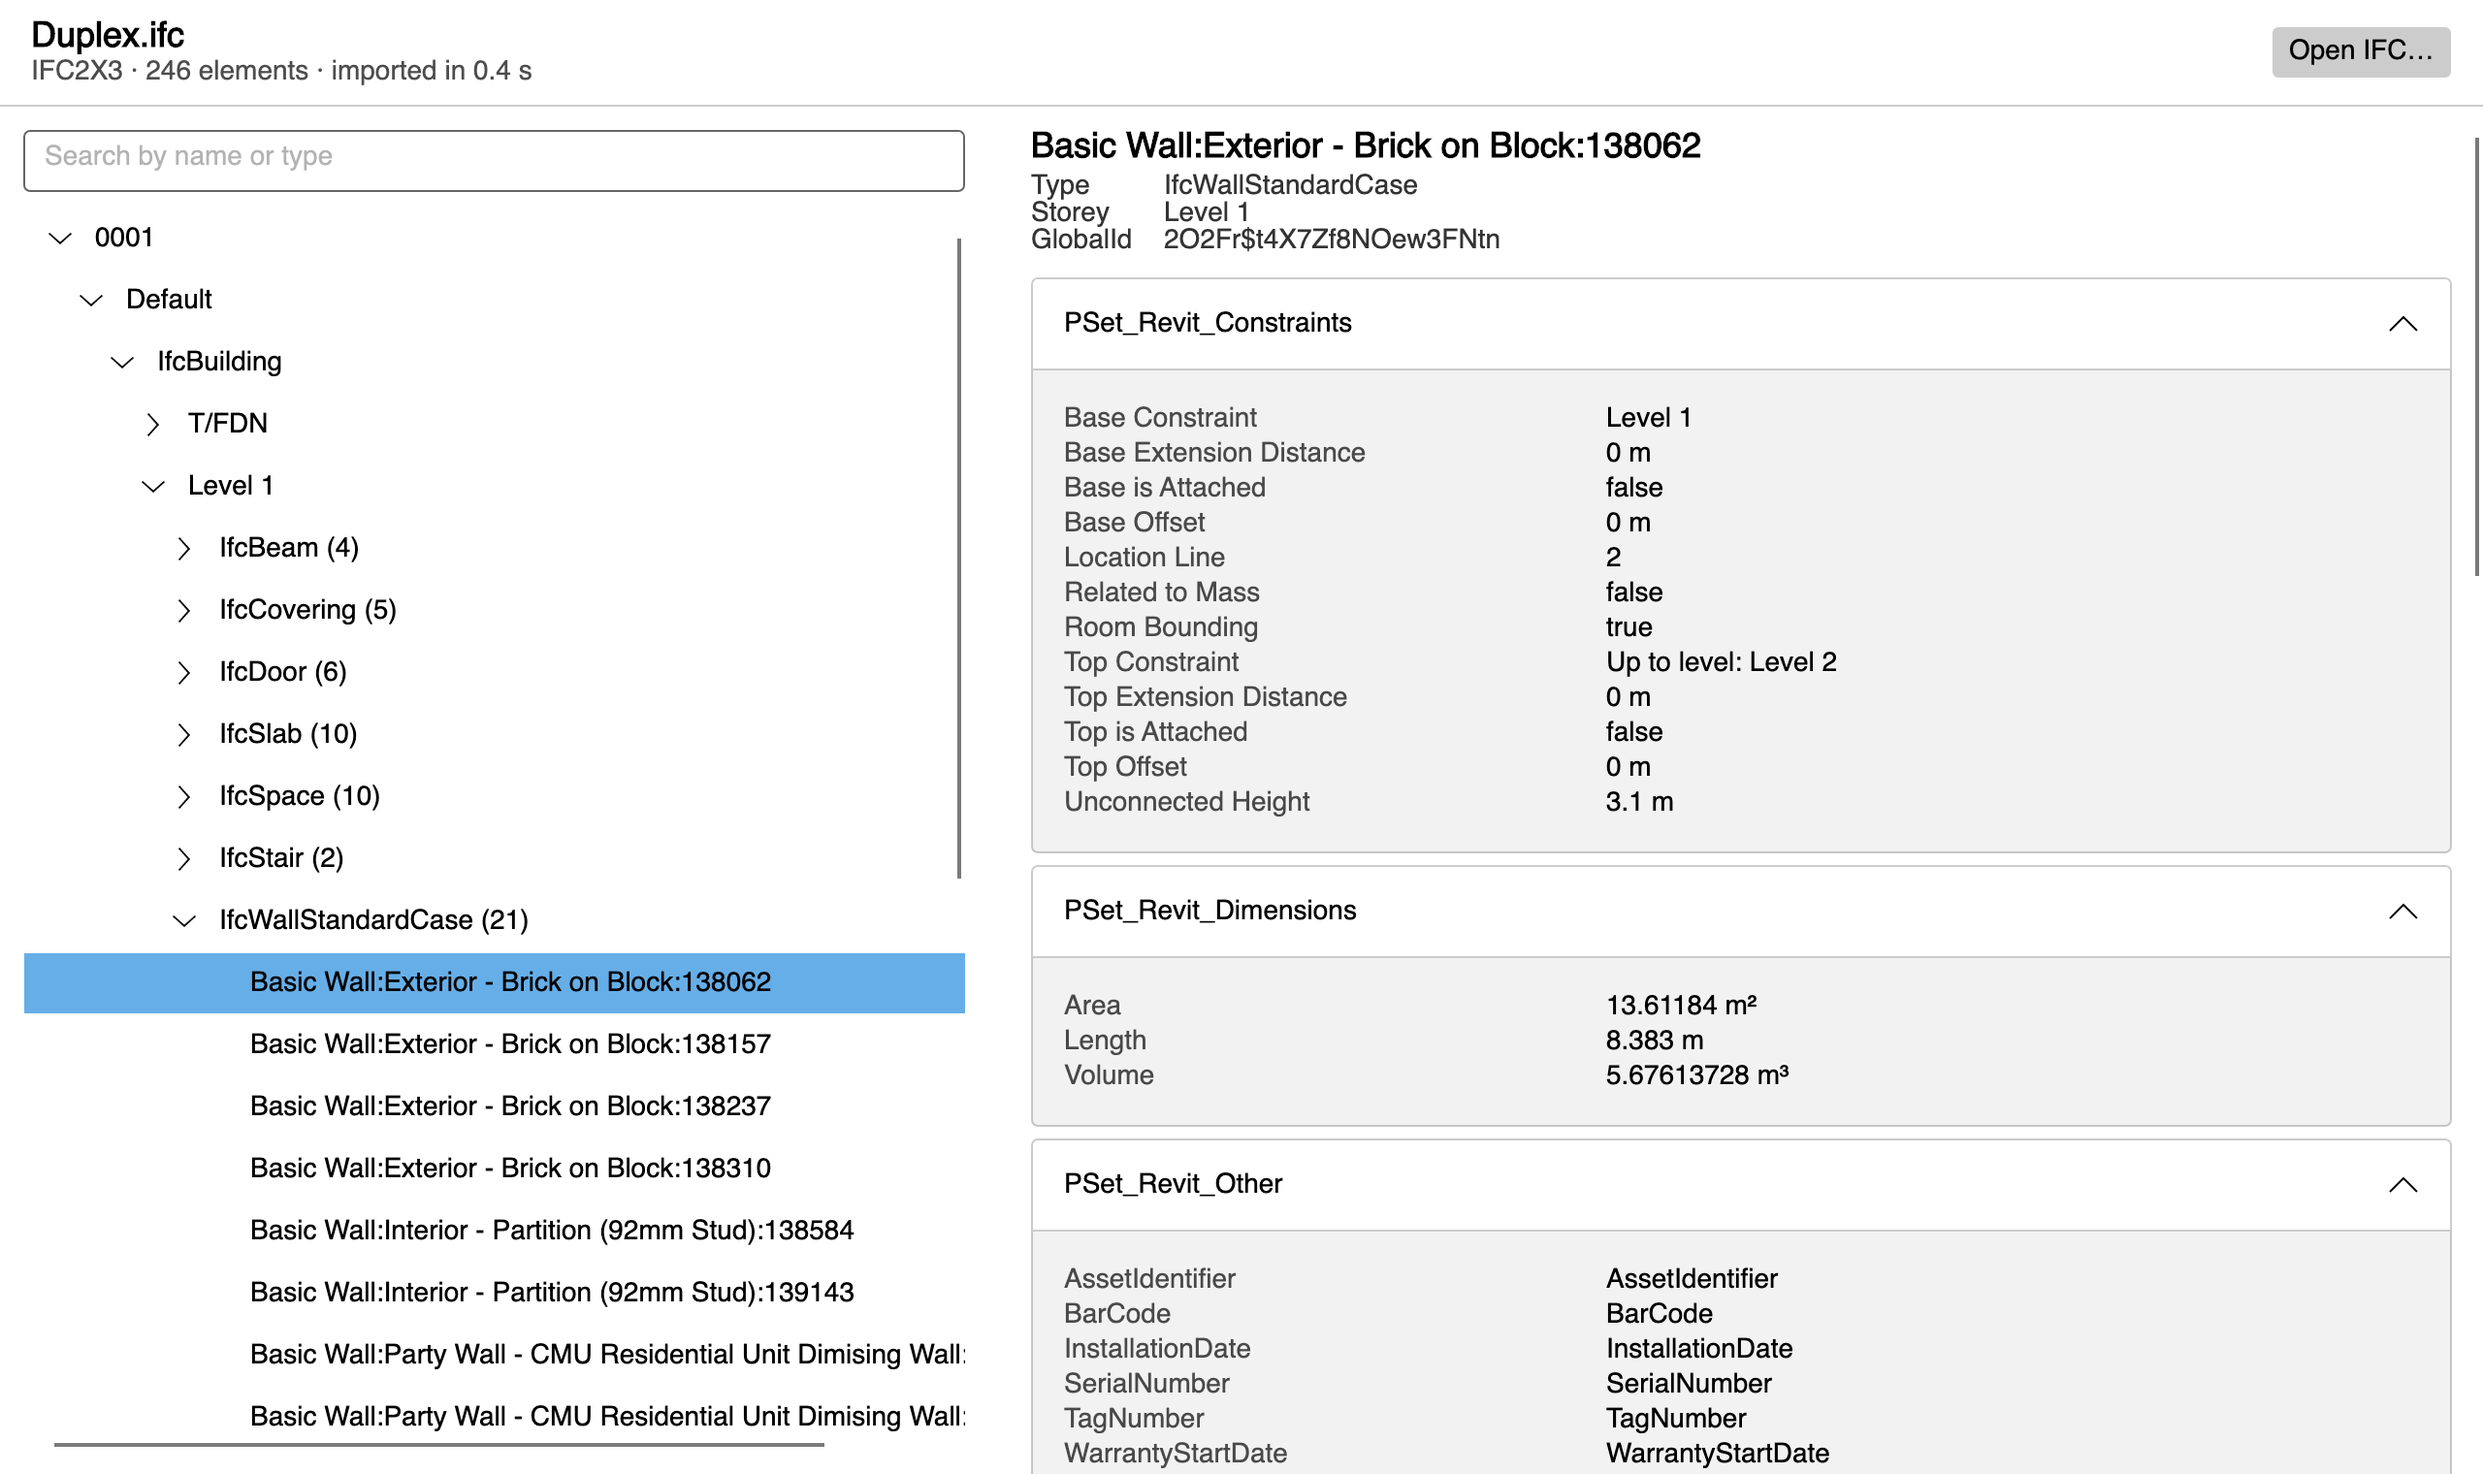
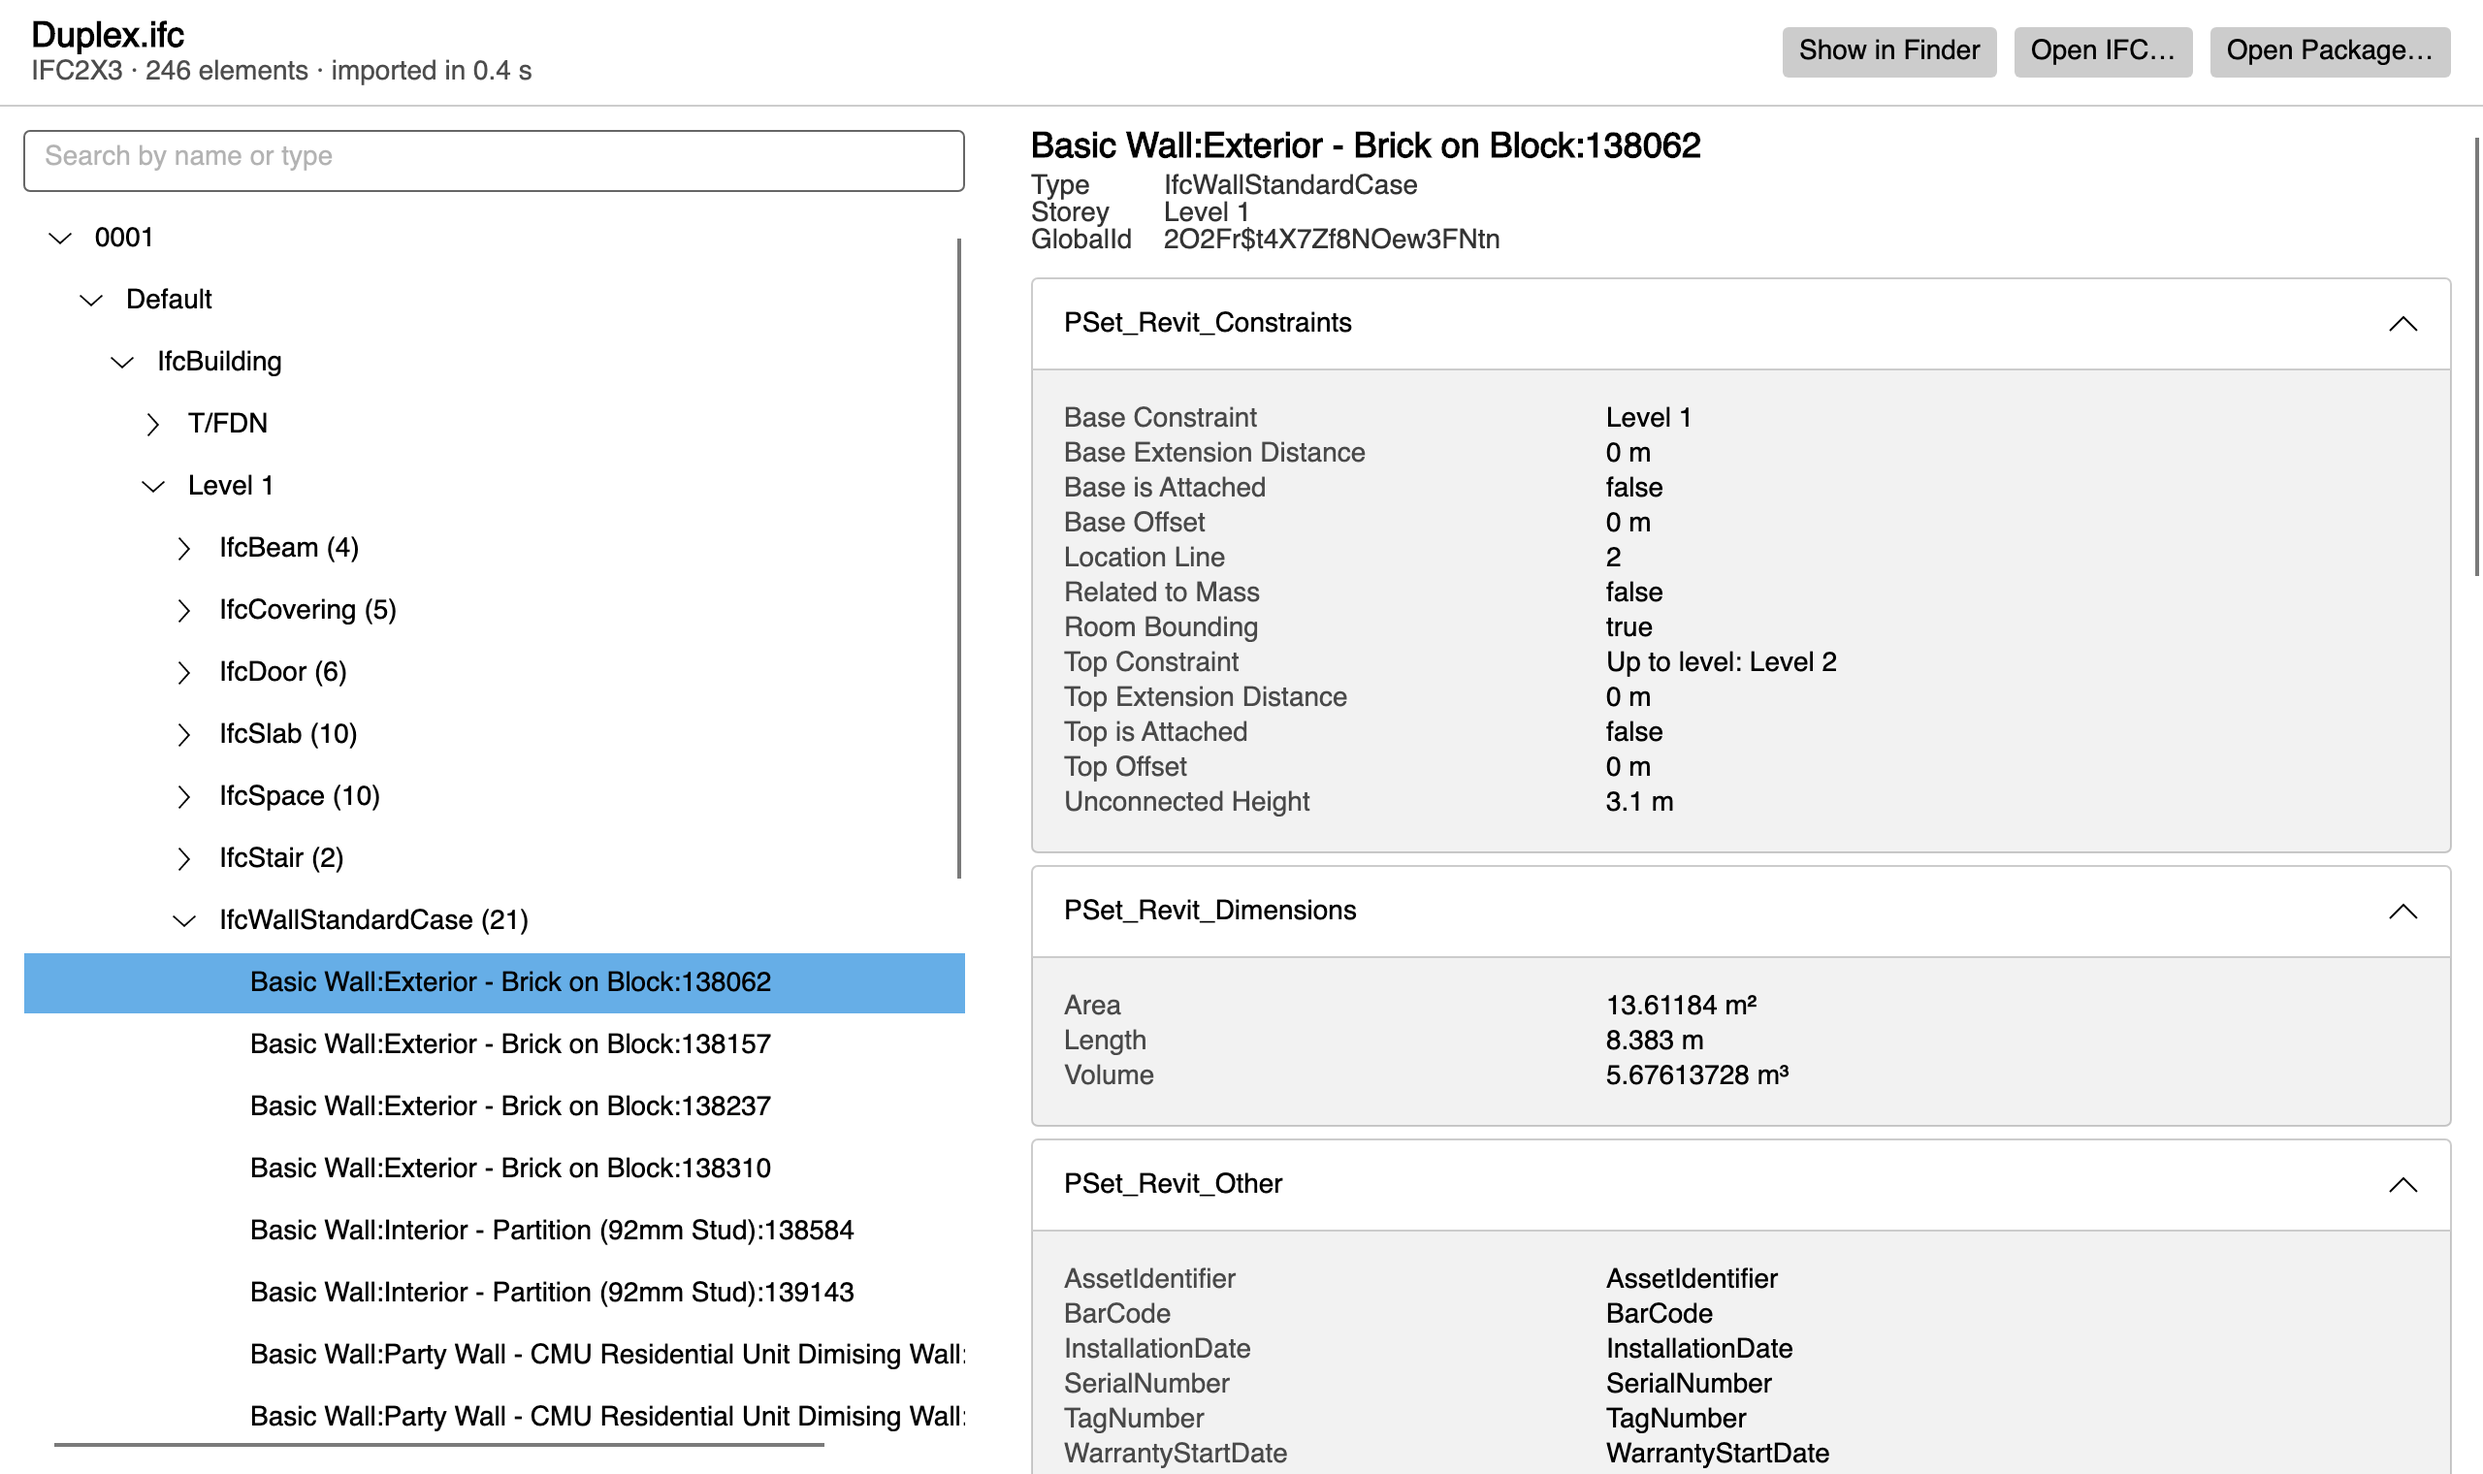
docs: describe architecture, pipeline and package format
Adds the project dependency diagram, the import pipeline and the
.plumb layout to the README, with fresh screenshots and import
versus package open timings.

Changed region(s): [[0.7188, 0.0, 0.9688, 0.0618]]

diff --git a/README.md b/README.md
@@ -1,6 +1,6 @@
 # Plumb
 
-Desktop viewer for IFC building models. Open an `.ifc` file and browse its spatial structure and the properties of every element.
+Desktop viewer for IFC building models. Open an `.ifc` file, browse its spatial structure and the properties of every element, and keep the result as a `.plumb` package that reopens in milliseconds.
 
 ```
               ________________________
@@ -22,7 +22,6 @@ Desktop viewer for IFC building models. Open an `.ifc` file and browse its spati
     V
  ~~~~~~~~~~~~~~~~~~~~~~~~~~~~~~~~~~~~~~~~
 ```
-
 <picture>
   <source media="(prefers-color-scheme: dark)" srcset="docs/plumb-dark.png">
   <img alt="Plumb with the Duplex model open: spatial tree on the left, properties of the selected wall on the right" src="docs/plumb-light.png">
@@ -35,23 +34,86 @@ Desktop viewer for IFC building models. Open an `.ifc` file and browse its spati
 - Shows instance and type property sets and quantity sets for the selected element. Instance values override type values.
 - Resolves units from the project's unit assignment when a property does not specify its own.
 - Filters the tree by element name or IFC type.
-- Imports in the background with progress reporting and cancellation.
+- Saves every import as a `.plumb` package next to the source file. Opening the package skips IFC parsing entirely.
+- Imports in the background with progress and cancellation. A cancelled or failed import never leaves a half-written package behind.
 
-A 2.4 MB Revit export with 246 elements and 12,713 property values opens in about 0.4 s on Apple Silicon.
+| Duplex sample: 2.4 MB, 246 elements, 12,713 property values | Time |
+|---|---|
+| Import from IFC | ~260 ms |
+| Open the saved package | ~15 ms |
+
+Measured on Apple Silicon with a Release build in a warm process.
 
 ## Architecture
 
+Every project does one job and references only what that job needs. Each box depends only on the boxes below it.
+
 ```
-src/Plumb.Core      data model, import contract, tree building and search
-src/Plumb.Import    IFC reading with xBIM
-src/Plumb.App       Avalonia desktop app
-tests/Plumb.Tests   NUnit tests
+                  ┌────────────────────────────┐
+                  │         Plumb.App          │
+                  │    Avalonia desktop UI     │
+                  └──────────────┬─────────────┘
+                                 │
+                  ┌──────────────┴─────────────┐
+                  │        Plumb.Import        │
+                  │     runs the pipeline      │
+                  └─────┬────────────────┬─────┘
+                        │                │
+                        │                │
+┌───────────────────────┴────┐      ┌────┴───────────────────────┐
+│         Plumb.Ifc          │      │       Plumb.Package        │
+│    IFC file to records     │      │ records to .plumb and back │
+│          [ xBIM ]          │      │         [ SQLite ]         │
+└──────────────────────┬─────┘      └─────┬──────────────────────┘
+                       │                  │
+                       │                  │
+                  ┌────┴──────────────────┴────┐
+                  │         Plumb.Core         │
+                  │   records, results, tree   │
+                  │  netstandard2.1, no deps   │
+                  └────────────────────────────┘
 ```
 
-- **Errors are values.** `ImportService` returns `ImportResult.Success` or `ImportResult.Failure` with an `ImportError` code and never throws for expected failures. xBIM wraps exceptions thrown from its progress callback, so cancellation is detected from the token rather than the exception type.
+| Project | Job | Key library |
+|---|---|---|
+| `Plumb.Core` | Records, import results, the element tree and search. Targets netstandard2.1, so any .NET runtime can reference it, Unity included. | |
+| `Plumb.Ifc` | Reads an IFC file into element and property records. | xBIM |
+| `Plumb.Package` | Writes records into a `.plumb` folder and reads them back. | SQLite |
+| `Plumb.Import` | Runs the steps in order, reports progress, turns every failure into a result. | |
+| `Plumb.App` | Drag and drop, tree, property panel. | Avalonia |
+
+xBIM and SQLite each appear in exactly one project, so either can be replaced without touching the rest.
+
+### Import pipeline
+
+```
+Duplex.ifc
+   |
+   |-- 1  validate   extension and ISO-10303-21 header           Plumb.Ifc
+   |-- 2  read       spatial structure, properties, units         Plumb.Ifc
+   |-- 3  write      hidden draft folder next to the target       Plumb.Package
+   '-- 4  publish    rename the draft to Duplex.plumb             Plumb.Import
+                     (an existing package is replaced only here)
+```
+
+Cancelling or failing at any step deletes the draft and leaves an existing package untouched. Because the draft sits in the same folder as the target, publishing is a rename, not a copy.
+
+### Package format
+
+```
+Duplex.plumb/
+|-- manifest.json   format version, source name and SHA-256, schema, element count, import time
+|-- model.sqlite    elements and properties tables, properties indexed by GlobalId
+'-- elements.json   id, type, name and storey of every element, for viewers without SQLite
+```
+
+The manifest is written last, so a folder without one was never finished. Readers check its format version before touching the database.
+
+### Design decisions
+
+- **Errors are values.** The pipeline returns `ImportResult.Success` or `ImportResult.Failure` with an `ImportError` code and never throws for expected failures. xBIM wraps exceptions thrown from its progress callback, so cancellation is detected from the token rather than the exception type.
 - **Window states are types.** Empty, importing and loaded are separate view models, and the main view model swaps between them instead of toggling flags.
-- **Flat records, tree on demand.** The importer produces two flat lists, elements and properties, keyed by IFC GlobalId. The tree is built from parent ids in `Plumb.Core`, and search returns a new pruned tree without touching the original.
-- **Portable core.** `Plumb.Core` targets netstandard2.1 and has no dependencies, so it can be referenced from any .NET runtime, including Unity.
+- **Flat records, tree on demand.** Import produces two flat lists keyed by IFC GlobalId, which map one to one onto the SQLite tables. The tree is built from parent ids, and search returns a new pruned tree without touching the original.
 - **No Windows-only storage.** Models open with xBIM's `MemoryModel`, because the default `IfcStore` provider may pick the Esent database, which only runs on Windows.
 - **Locale-independent numbers.** Values are written with the invariant culture and 10 significant digits, so Revit's `17.38299999999997` becomes `17.383` on any system.
 
@@ -63,7 +125,7 @@ Requires the .NET 10 SDK. Developed and tested on macOS (Apple Silicon); the cod
 dotnet run --project src/Plumb.App
 ```
 
-To open a file on start, pass its path:
+To open a file or package on start, pass its path:
 
 ```bash
 dotnet run --project src/Plumb.App -- path/to/model.ifc
@@ -76,13 +138,13 @@ samples/fetch-samples.sh
 dotnet test
 ```
 
-The suite imports the Duplex architecture model and checks the tree, storey order, units and property integrity, and covers error handling, cancellation, search and the window state transitions.
+The suite imports the Duplex architecture model and checks the tree, storey order, units and property integrity. It writes and reopens packages, replaces them, cancels mid-write and verifies that no draft is left behind, and covers error handling, search and the window state transitions.
 
 The Duplex model is not stored in the repository because its source publishes no license. `fetch-samples.sh` downloads it from a pinned commit of [youshengCode/IfcSampleFiles](https://github.com/youshengCode/IfcSampleFiles) and verifies its SHA-256.
 
 ## Built with
 
-.NET 10, Avalonia 12, CommunityToolkit.Mvvm, [xBIM Essentials](https://github.com/xBimTeam/XbimEssentials) 6, NUnit.
+.NET 10, Avalonia 12, CommunityToolkit.Mvvm, [xBIM Essentials](https://github.com/xBimTeam/XbimEssentials) 6, Microsoft.Data.Sqlite, NUnit.
 
 ## License
 
